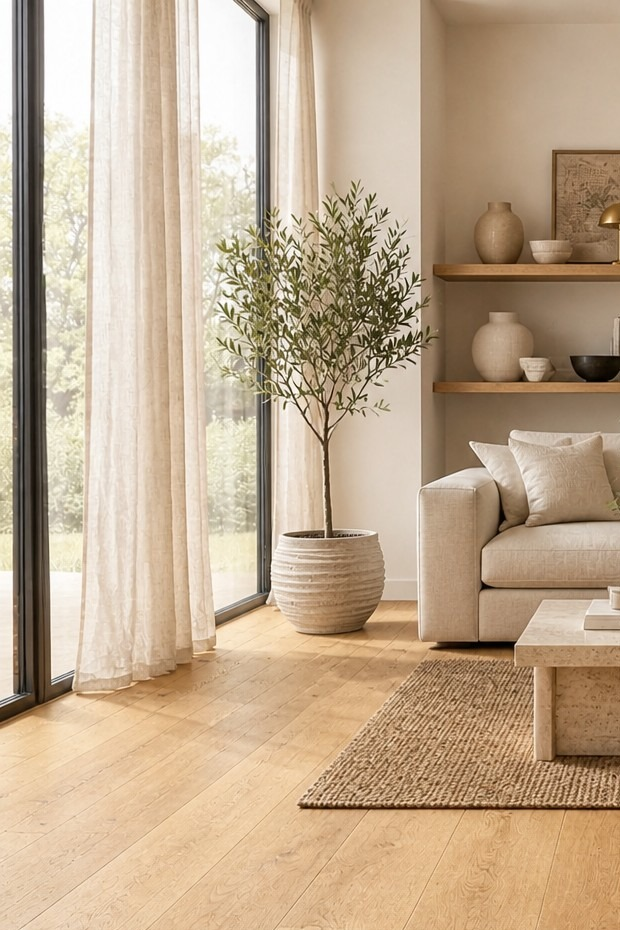
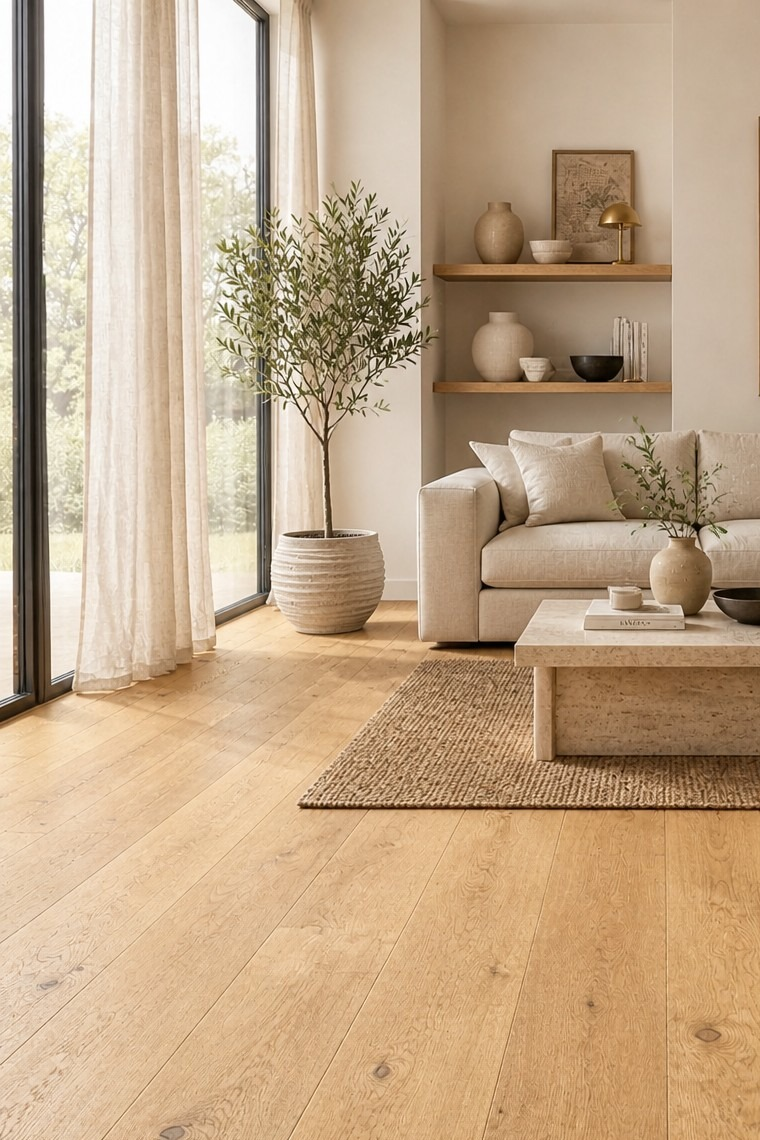
Ausstattung: schärferes Wohnraumbild, Bilder in Originalauflösung, Schreibweise QNG 40
Das Wohnraumbild ist durch die schärfere Vorlage ersetzt, der Ausschnitt
auf der Komfort-Seite stammt jetzt aus demselben Bild. Die Bilder der
Unterlage werden unverkleinert eingebunden, damit sie im PDF scharf bleiben.

Claude-Session: https://claude.ai/code/session_01A9HRSS8wVxerx7LgUim2ie

diff --git a/src/app/admin/(team)/ausstattung/page.tsx b/src/app/admin/(team)/ausstattung/page.tsx
@@ -85,7 +85,7 @@ export default function Ausstattung() {
       <section className="blatt titelblatt">
         <Image
           src={`${BILD}/wohnraum-parkett.jpg`} alt="Wohnraum mit Echtholz-Eichenparkett"
-          fill sizes="210mm" loading="eager" className="titel-bild"
+          fill sizes="210mm" loading="eager" unoptimized className="titel-bild"
         />
         <div className="titel-inhalt">
           <p className="titel-marke"><Hauszeichen size={40} /> Ausstattung</p>
@@ -99,7 +99,7 @@ export default function Ausstattung() {
               {palette.map((f) => (
                 <li key={f.name}>
                   <span className="au-muster">
-                    {f.bild && <Image src={`${BILD}/${f.bild}`} alt="" fill sizes="40mm" loading="eager" />}
+                    {f.bild && <Image src={`${BILD}/${f.bild}`} alt="" fill sizes="40mm" loading="eager" unoptimized />}
                   </span>
                   {f.name}
                 </li>
@@ -107,7 +107,7 @@ export default function Ausstattung() {
             </ul>
           </div>
           <div className="titel-fuss">
-            <span>{objekte.length} Eigentumswohnungen · Effizienzhaus 40 QNG<br />{projekt.adresse}</span>
+            <span>{objekte.length} Eigentumswohnungen · Effizienzhaus QNG 40<br />{projekt.adresse}</span>
             <span className="titel-judek"><JudekLogo /></span>
           </div>
         </div>
@@ -312,7 +312,7 @@ export default function Ausstattung() {
           {haus.map(([name, text]) => <div key={name}><dt>{name}</dt><dd>{text}</dd></div>)}
         </dl>
         <p className="ex-kasten au-qng">
-          Ein Wohnhaus im Standard KfW-Effizienzhaus 40 QNG kombiniert extrem niedrigen Energiebedarf mit
+          Ein Wohnhaus im Standard KfW-Effizienzhaus QNG 40 kombiniert extrem niedrigen Energiebedarf mit
           strengen Nachhaltigkeitskriterien, um die höchste Stufe der staatlichen Neubauförderung zu erreichen.
         </p>
 
@@ -391,7 +391,7 @@ function Seite({ nr, kapitel, titel, hinweis, children }: {
 function Bild({ datei, alt, sizes, einpassen }: { datei: string; alt: string; sizes: string; einpassen?: boolean }) {
   return (
     <span className={`au-bild${einpassen ? " au-einpassen" : ""}`}>
-      <Image src={`${BILD}/${datei}`} alt={alt} fill sizes={sizes} loading="eager" />
+      <Image src={`${BILD}/${datei}`} alt={alt} fill sizes={sizes} loading="eager" unoptimized />
     </span>
   );
 }
